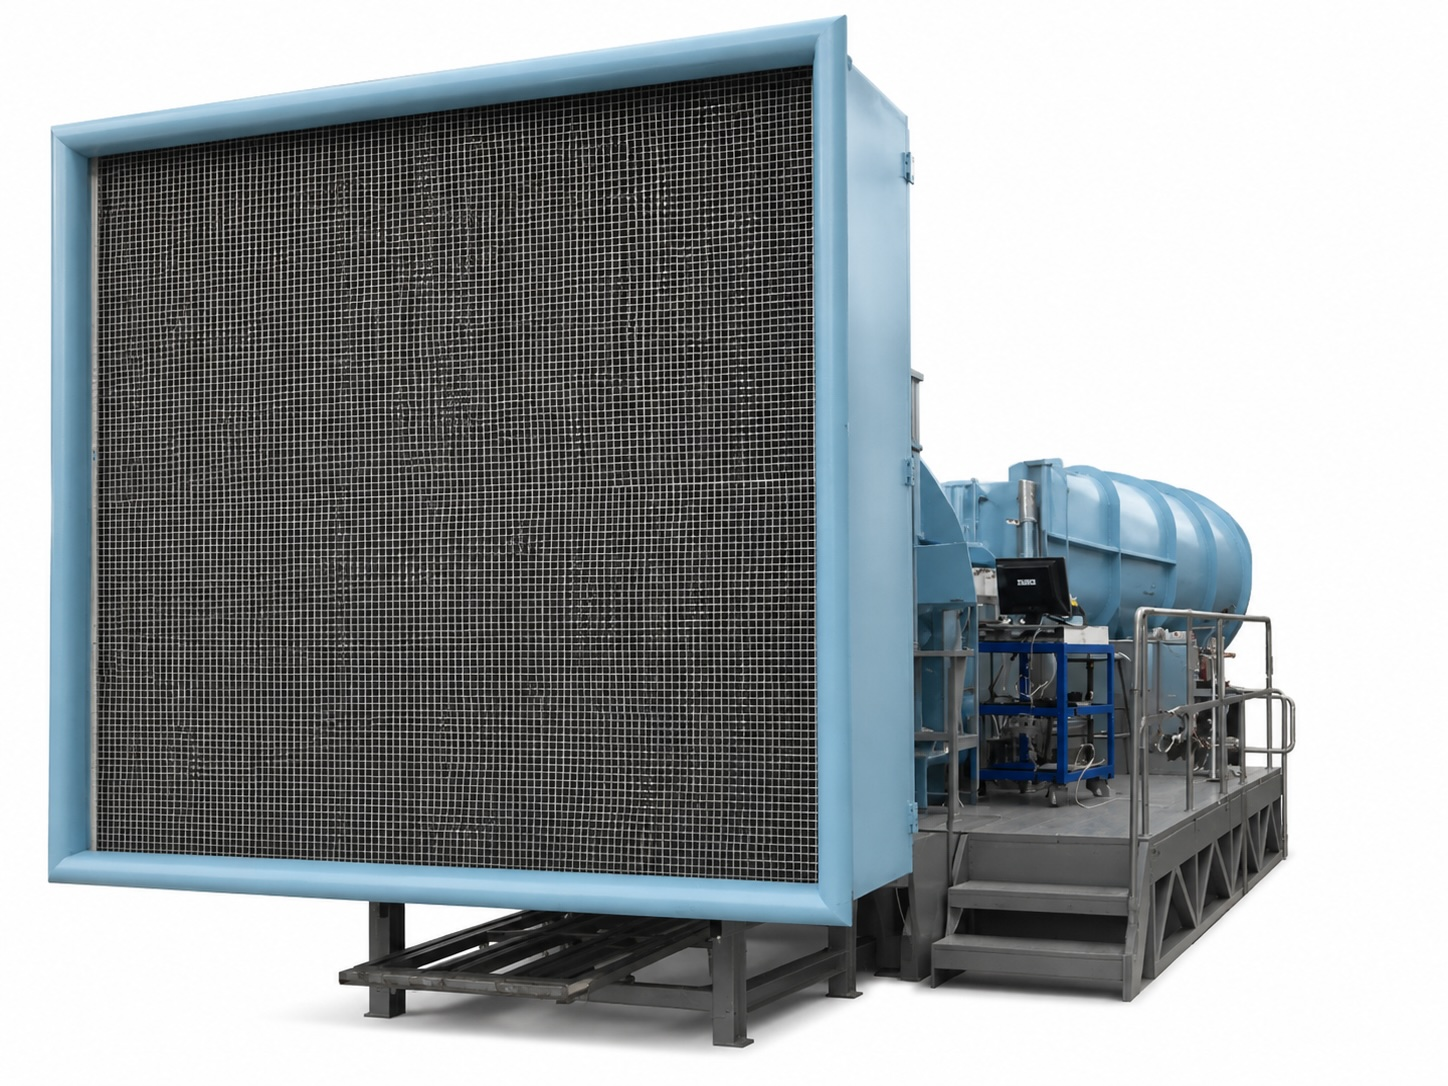
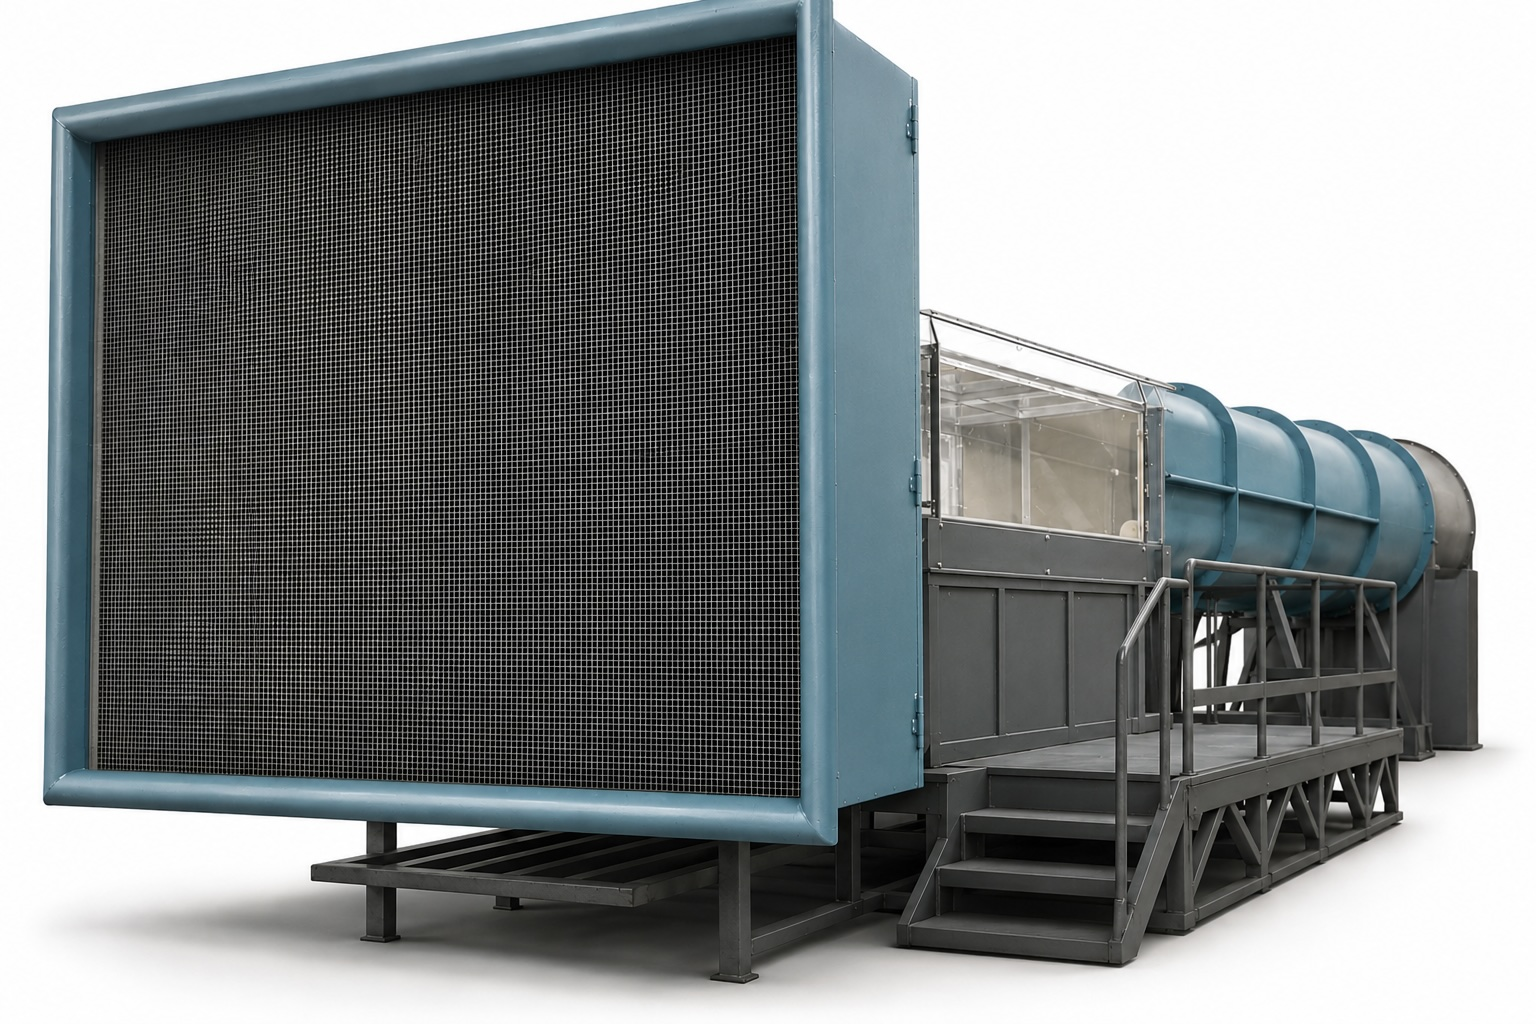
adding gemlock file for versioning; fix wind tunnel AI pic

diff --git a/MAINTENANCE.md b/MAINTENANCE.md
@@ -141,6 +141,37 @@ make sure Conda is off (`conda deactivate`) and refresh the Command Line Tools
 
 ---
 
+## Gem versions (`Gemfile.lock`)
+
+**You will almost never touch this.** It matters because it is the difference
+between a site that keeps building and one that breaks by itself.
+
+`Gemfile` says which software the site needs in loose terms ("Jekyll 4.3 or
+newer"). `Gemfile.lock` records the one exact version of each that was actually
+used, including the dozens of libraries Jekyll depends on underneath. Both files
+are committed, and `./serve.sh` and GitHub Actions read the same lockfile, so the
+preview on your laptop and the live site are built from identical parts.
+
+Without the lockfile, every publish silently picks whatever was newest that
+morning — which means a stranger's release, not any change of yours, can break
+the site. Dependabot also needs the lockfile: with no lockfile there is nothing
+for it to bump, so its weekly gem check quietly does nothing.
+
+**To move to newer gems on purpose:**
+
+```
+./scripts/update-lockfile.sh     # rewrites Gemfile.lock
+```
+
+Then commit the changed `Gemfile.lock` **on a branch** and open a pull request.
+Site checks will build with the new versions and tell you whether they are safe.
+If the build fails, close the pull request and nothing reaches the live site.
+
+If `./serve.sh` stops with a message about the Gemfile and lockfile disagreeing,
+someone edited `Gemfile` without rerunning that script. Run it, and commit both files.
+
+---
+
 ## Undo a change (rollback)
 
 Every change is a commit. To undo one: open the repo's **commit history**, find
